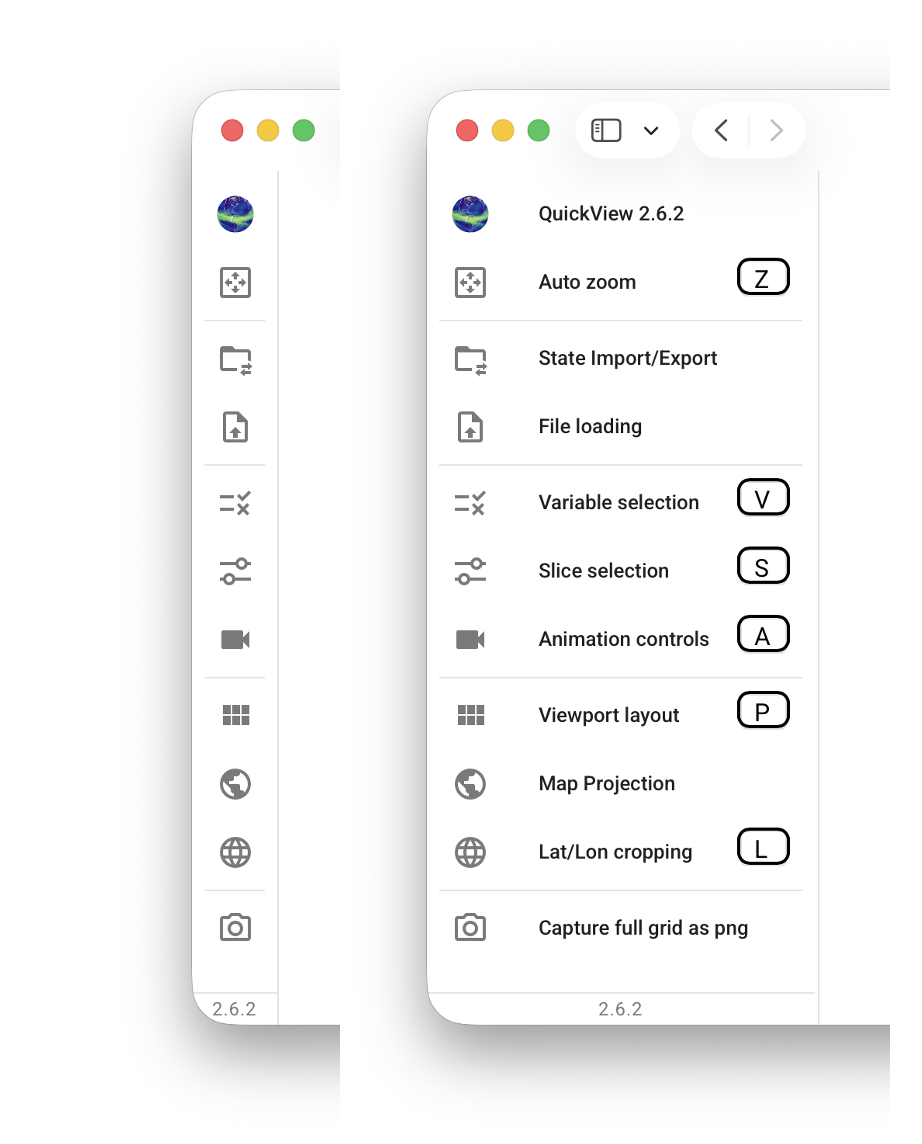
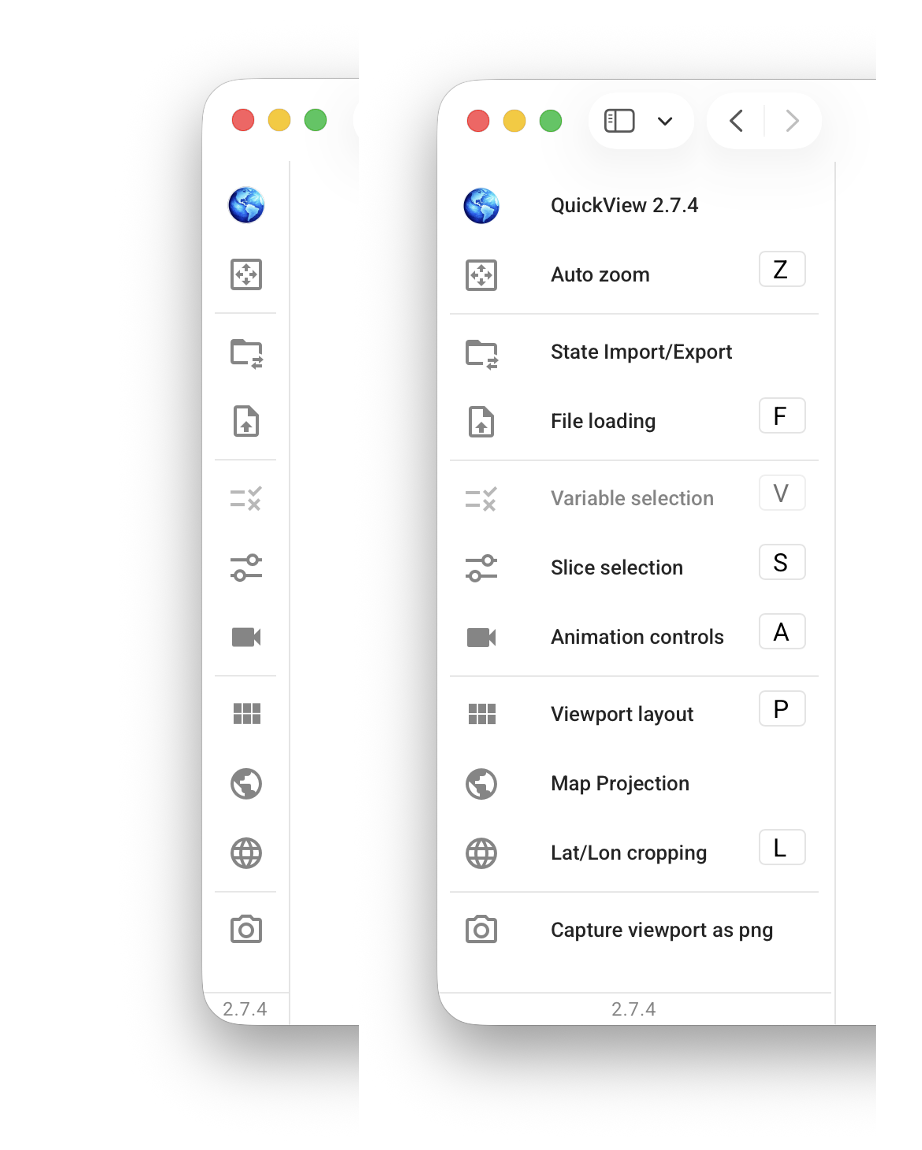
doc: update screenshots for quickview ui overview and shortcuts

diff --git a/docs/guides/quickview/ui_overview.md b/docs/guides/quickview/ui_overview.md
@@ -7,18 +7,18 @@
 
 QuickView's UI contains three main components.
 
-- **Viewport**: The viewport displays global or regional map plots
+- **Viewport**: The viewport displays contour plots on global or regional maps
   for the user-selected physical quantities (variables in the NetCDF files).
-  The sequence of the displayed variables and the size of the map plots
+  The sequence of the displayed variables and the size of the contour plots
   can be adjusted using the [viewport layout](./viewport_layout.md) control panel.
   For each variable shown on a map, the colormap, value ranges etc. can be adjusted
-  individually using the [pop-up menu](./individual_views.md)
+  individually using the [pop-up panel](./individual_views.md)
   activated by a click on the colorbar.
 
 ![Toolbar compact or expanded](./screenshots/toolbar_compact_or_expanded.png){ width="40%" align=right}
 
-- **Control panels**: Various control panels allow the user to
-  change properties of all map plots shown in the viewport.
+- **Control panels**: QuickView includes various control panels for
+  changing the properties of contour plots shown in the viewport.
   The control panels can be collapsed (hidden)
   or expanded (shown) by clicking on their corresponding icons in the
   toolbar or by using [keyboard shortcuts](./shortcuts).
